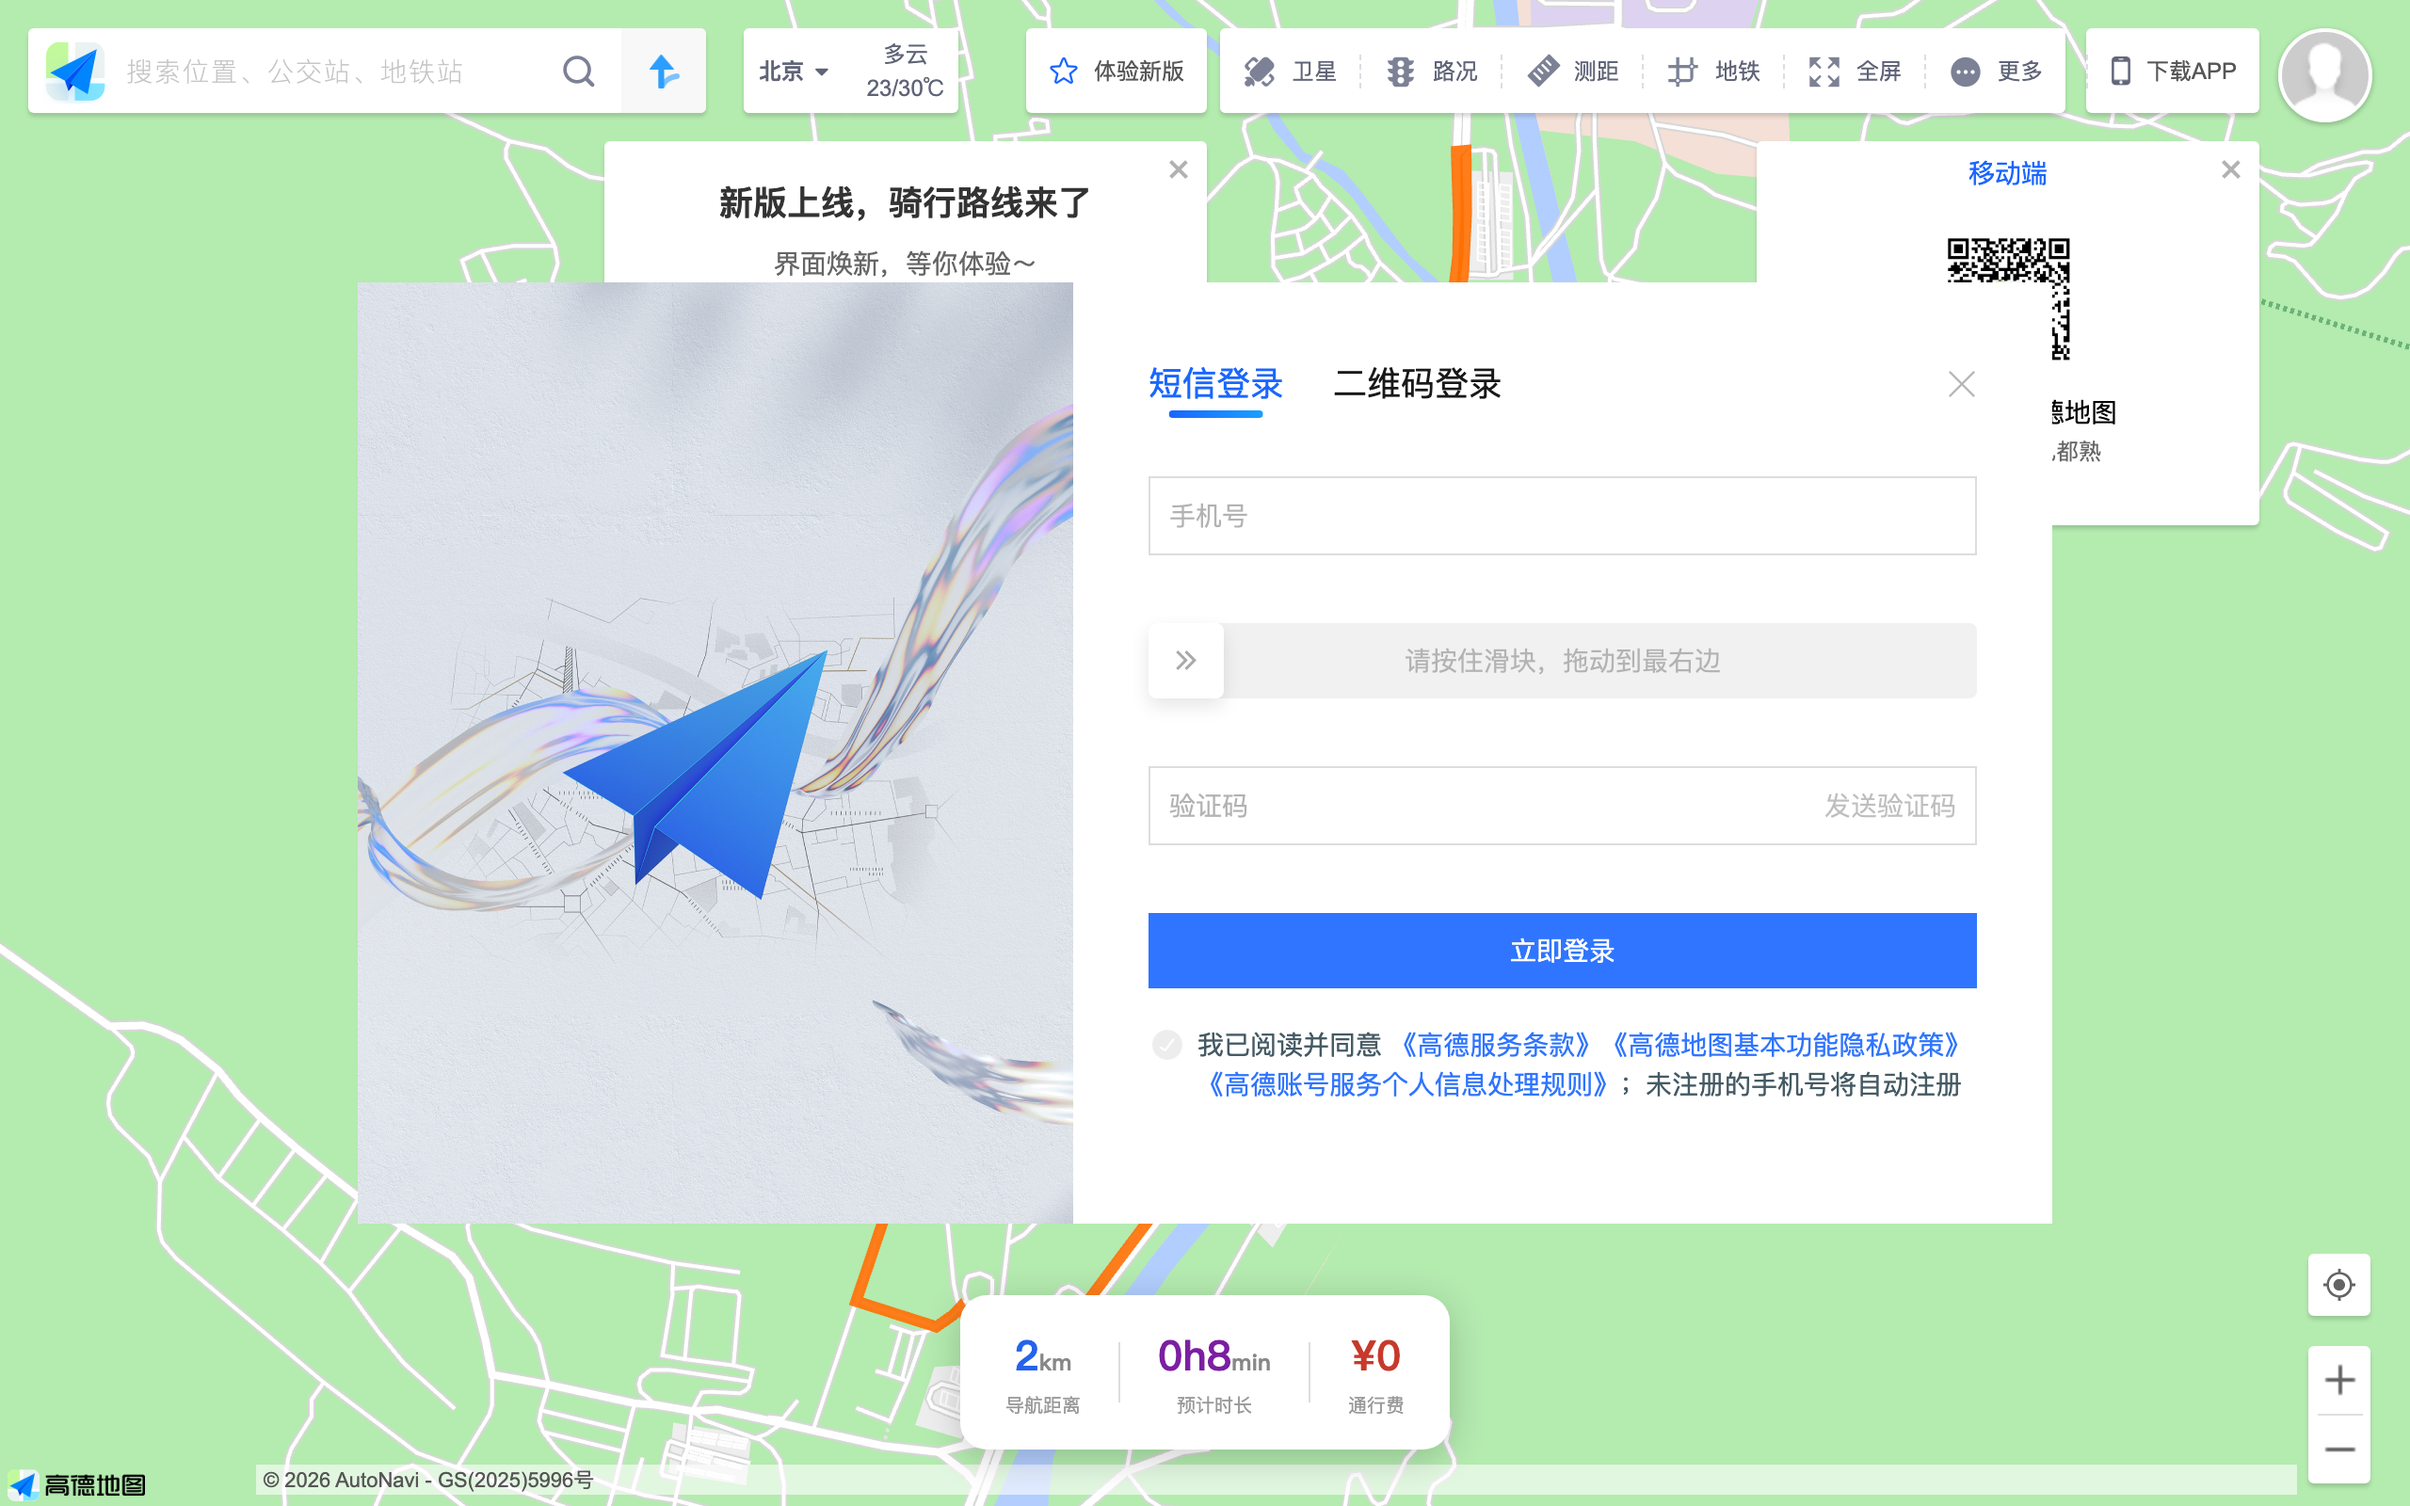
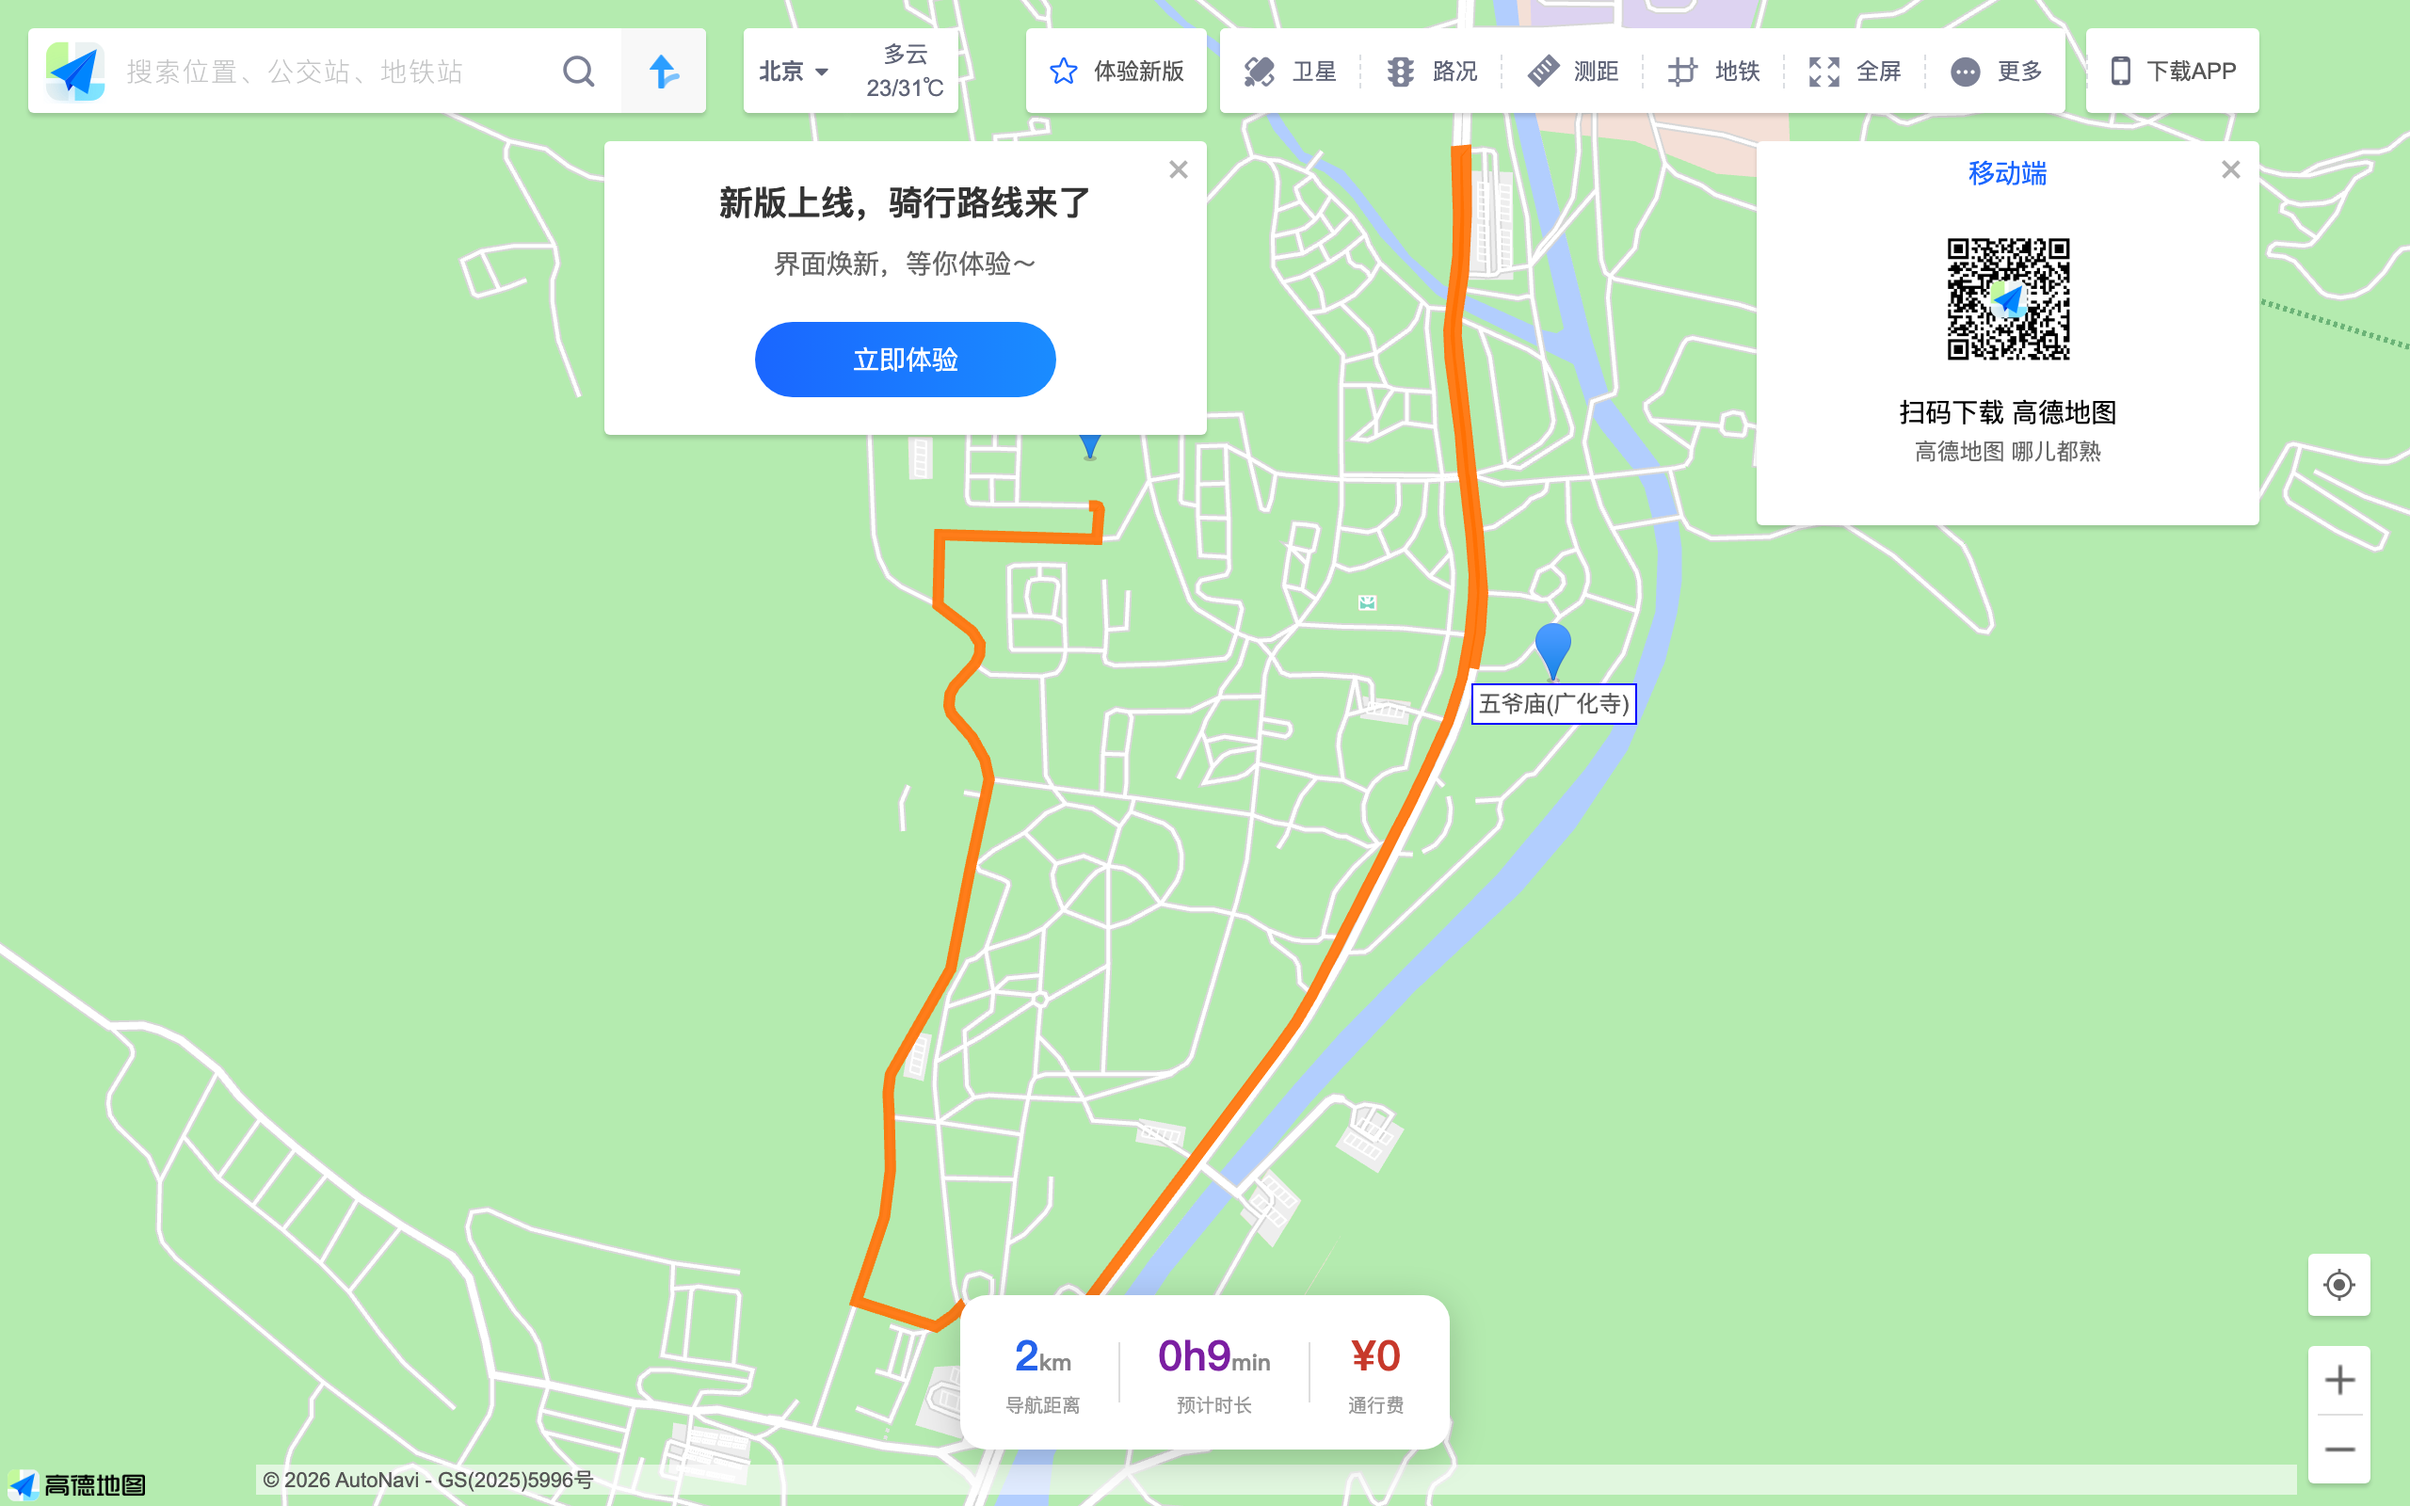
fix(trip-map): 五台山截图去登录弹窗+响应式缩放+lightbox点击大图

diff --git a/wutaishan-trip-map-v5.html b/wutaishan-trip-map-v5.html
@@ -141,7 +141,18 @@ header p .route { font-weight: 600; }
 }
 .poi-actions a:active { opacity: 0.7; }
 
-/* ========== 路线信息(导航距离/时长/通行费) ========== */
+/* ========== 地图路线截图(响应式+lightbox) ========== */
+.poi-route-map {
+  width: 100%;
+  display: block;
+  border-radius: 10px;
+  margin: 6px 0 10px;
+  border: 1px solid #e8eaec;
+  cursor: pointer;
+}
+.poi-route-map:active { transform: scale(0.97); }
+
+/* ========== 路线信息卡片截图(旧格式) ========== */
 .poi-route-img {
   width: 100%;
   display: block;
@@ -216,6 +227,24 @@ header p .route { font-weight: 600; }
   box-shadow: 0 3px 10px rgba(0, 0, 0, 0.2);
   cursor: pointer;
   z-index: 50;
+}
+
+/* ========== Lightbox 全屏预览 ========== */
+.lightbox-overlay {
+  position: fixed;
+  top: 0; left: 0; width: 100%; height: 100%;
+  background: rgba(0,0,0,0.85);
+  z-index: 99999;
+  display: flex;
+  align-items: center;
+  justify-content: center;
+  cursor: zoom-out;
+}
+.lightbox-overlay img {
+  max-width: 95vw;
+  max-height: 95vh;
+  border-radius: 8px;
+  box-shadow: 0 8px 40px rgba(0,0,0,0.4);
 }
 </style>
 </head>
@@ -467,6 +496,20 @@ const observer = new IntersectionObserver((entries) => {
 }, { rootMargin: '-30% 0px -50% 0px' });
 
 sections.forEach(s => observer.observe(s));
+
+// Lightbox: 点击地图路线截图全屏查看
+const routeImgs = document.querySelectorAll('.poi-route-map');
+routeImgs.forEach(img => {
+  img.addEventListener('click', () => {
+    const lb = document.createElement('div');
+    lb.className = 'lightbox-overlay';
+    const lbImg = document.createElement('img');
+    lbImg.src = img.src;
+    lb.appendChild(lbImg);
+    lb.onclick = () => lb.remove();
+    document.body.appendChild(lb);
+  });
+});
 </script>
 
 </body>
